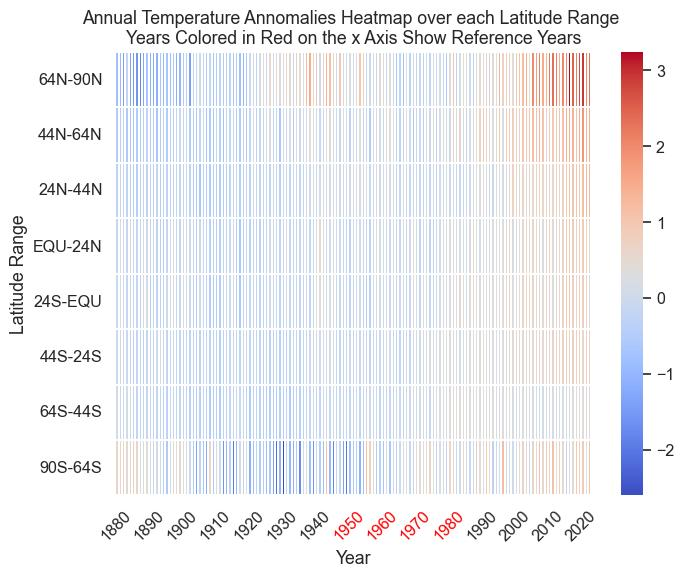
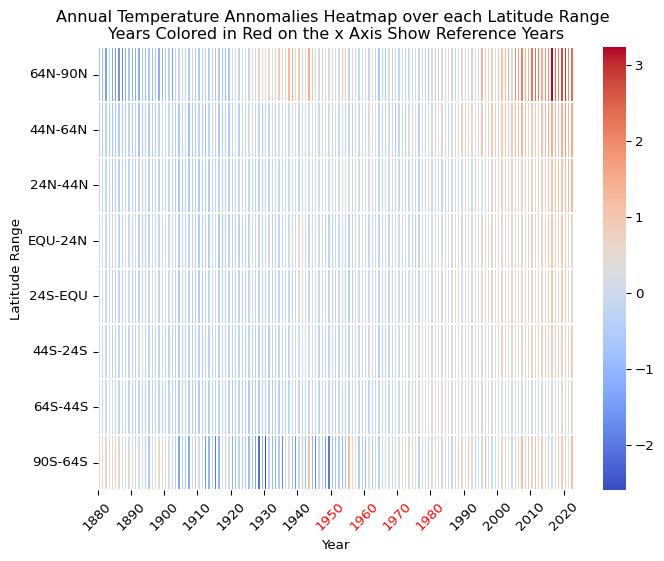
cp

diff --git a/_site/index.html b/_site/index.html
@@ -212,7 +212,7 @@ pre > code.sourceCode > span > a:first-child::before { text-decoration: underlin
 <p>Approach: The approach for this analysis will involve two distinct methods: heatmap visualization and time series analysis. The heatmap provides an intuitive grasp of the data by color mapping the temperature anomalies across latitudinal zones over time. This method is suitable for spotting overall trends and outliers in a comprehensive visual format. For the time series analysis, we will examine the changes in global and hemispheric mean temperatures over time. This will involve plotting the data, with a particular emphasis on trend lines to discern long-term changes. The use of color mapping in the heatmap serves to quickly convey the magnitude of anomalies, while the time series plot with its trend line will enable us to evaluate the trajectory of temperature changes more formally.</p>
 <section id="code-block-1-load-and-preprocess-the-data" class="level3">
 <h3 class="anchored" data-anchor-id="code-block-1-load-and-preprocess-the-data">Code Block 1: Load and preprocess the data</h3>
-<div id="93212ed3" class="cell" data-execution_count="1">
+<div id="50be3306" class="cell" data-execution_count="1">
 <div class="sourceCode cell-code" id="cb1"><pre class="sourceCode python code-with-copy"><code class="sourceCode python"><span id="cb1-1"><a href="#cb1-1" aria-hidden="true" tabindex="-1"></a><span class="im">import</span> pandas <span class="im">as</span> pd</span>
 <span id="cb1-2"><a href="#cb1-2" aria-hidden="true" tabindex="-1"></a><span class="im">import</span> matplotlib.pyplot <span class="im">as</span> plt</span>
 <span id="cb1-3"><a href="#cb1-3" aria-hidden="true" tabindex="-1"></a><span class="im">import</span> seaborn <span class="im">as</span> sns</span>
@@ -313,20 +313,20 @@ pre > code.sourceCode > span > a:first-child::before { text-decoration: underlin
 <p>Introduction: We will use nh_temps.csv and sh_temps.csv datasets. We should start by converting the dataset of each hemisphere to a long format by defining one new column for month (season) and one column that shows the hemispheres (NH and SH). Finally, we can merge the data frames vertically to arrive at a one comprehensive dataframe. We can compare the pattern of seasonal temperature anomalies over the Northern and Southern hemispheres separately and collectively. We can use time series, box plots, or histograms to illustrate and compare the time series and statistical distribution of seasonal temperature anomalies in the northern and southern hemispheres to discuss how different and similar they are. It may be interesting to create a similar visualization to the previous question with deviation from long-term anomalies. This would not only capture how seasonal temperatures have strayed from some long-term average, but how temperatures are fluctuating relative to even temporally local averages.</p>
 <p>Approach: We’ll perform comparative analysis by comparing 2023 average temperature anomalies with historical peaks, both globally and hemispherically, while also scrutinizing seasonal variations to deepen our understanding.</p>
 <p>Analysis:</p>
-<div id="29194b67" class="cell" data-execution_count="4">
+<div id="1bc971f5" class="cell" data-execution_count="4">
 <div class="sourceCode cell-code" id="cb5"><pre class="sourceCode python code-with-copy"><code class="sourceCode python"><span id="cb5-1"><a href="#cb5-1" aria-hidden="true" tabindex="-1"></a><span class="im">import</span> pandas <span class="im">as</span> pd </span>
 <span id="cb5-2"><a href="#cb5-2" aria-hidden="true" tabindex="-1"></a><span class="im">import</span> numpy <span class="im">as</span> np  </span>
 <span id="cb5-3"><a href="#cb5-3" aria-hidden="true" tabindex="-1"></a><span class="im">import</span> seaborn <span class="im">as</span> sns</span>
 <span id="cb5-4"><a href="#cb5-4" aria-hidden="true" tabindex="-1"></a><span class="im">import</span> matplotlib.pyplot <span class="im">as</span> plt</span>
 <span id="cb5-5"><a href="#cb5-5" aria-hidden="true" tabindex="-1"></a><span class="im">from</span> matplotlib.ticker <span class="im">import</span> MaxNLocator</span></code><button title="Copy to Clipboard" class="code-copy-button"><i class="bi"></i></button></pre></div>
 </div>
-<div id="b9d6f999" class="cell" data-execution_count="5">
+<div id="3d9cd2a2" class="cell" data-execution_count="5">
 <div class="sourceCode cell-code" id="cb6"><pre class="sourceCode python code-with-copy"><code class="sourceCode python"><span id="cb6-1"><a href="#cb6-1" aria-hidden="true" tabindex="-1"></a>NH <span class="op">=</span> pd.read_csv(<span class="st">'./data/nh_temps.csv'</span>)</span>
 <span id="cb6-2"><a href="#cb6-2" aria-hidden="true" tabindex="-1"></a>SH <span class="op">=</span> pd.read_csv(<span class="st">'./data/sh_temps.csv'</span>)</span>
 <span id="cb6-3"><a href="#cb6-3" aria-hidden="true" tabindex="-1"></a><span class="co"># SH = SH.set_index('Year')</span></span>
 <span id="cb6-4"><a href="#cb6-4" aria-hidden="true" tabindex="-1"></a><span class="co"># NH = NH.set_index('Year')</span></span></code><button title="Copy to Clipboard" class="code-copy-button"><i class="bi"></i></button></pre></div>
 </div>
-<div id="cd6398b8" class="cell" data-execution_count="6">
+<div id="2d06541e" class="cell" data-execution_count="6">
 <div class="sourceCode cell-code" id="cb7"><pre class="sourceCode python code-with-copy"><code class="sourceCode python"><span id="cb7-1"><a href="#cb7-1" aria-hidden="true" tabindex="-1"></a>SH <span class="op">=</span> SH.rename(columns<span class="op">=</span>{<span class="st">'DJF'</span>: <span class="st">"JJA"</span>, <span class="st">'MAM'</span>: <span class="st">'SON'</span>, <span class="st">'JJA'</span>: <span class="st">"DJF"</span>, <span class="st">'SON'</span>:<span class="st">'MAM'</span> })</span>
 <span id="cb7-2"><a href="#cb7-2" aria-hidden="true" tabindex="-1"></a></span>
 <span id="cb7-3"><a href="#cb7-3" aria-hidden="true" tabindex="-1"></a></span>
@@ -372,31 +372,33 @@ pre > code.sourceCode > span > a:first-child::before { text-decoration: underlin
 <span id="cb7-43"><a href="#cb7-43" aria-hidden="true" tabindex="-1"></a>        <span class="cf">if</span> index <span class="op">%</span> nth_label <span class="op">!=</span> <span class="dv">0</span>:</span>
 <span id="cb7-44"><a href="#cb7-44" aria-hidden="true" tabindex="-1"></a>            label.set_visible(<span class="va">False</span>)</span>
 <span id="cb7-45"><a href="#cb7-45" aria-hidden="true" tabindex="-1"></a></span>
-<span id="cb7-46"><a href="#cb7-46" aria-hidden="true" tabindex="-1"></a></span>
+<span id="cb7-46"><a href="#cb7-46" aria-hidden="true" tabindex="-1"></a>figg.savefig(<span class="st">'./images/timeseis.jpg'</span>,bbox_inches<span class="op">=</span><span class="st">'tight'</span>)</span>
 <span id="cb7-47"><a href="#cb7-47" aria-hidden="true" tabindex="-1"></a></span>
-<span id="cb7-48"><a href="#cb7-48" aria-hidden="true" tabindex="-1"></a>figg, ax <span class="op">=</span> plt.subplots(nrows<span class="op">=</span><span class="dv">1</span>, ncols<span class="op">=</span><span class="dv">1</span>, figsize<span class="op">=</span>(<span class="dv">20</span>, <span class="dv">8</span>))</span>
-<span id="cb7-49"><a href="#cb7-49" aria-hidden="true" tabindex="-1"></a>plot <span class="op">=</span> sns.boxplot(data<span class="op">=</span>df_full, y<span class="op">=</span><span class="st">'Temperature'</span>, x<span class="op">=</span><span class="st">'Season'</span>, hue<span class="op">=</span><span class="st">'Hemisphere'</span>, ax<span class="op">=</span>ax)</span>
-<span id="cb7-50"><a href="#cb7-50" aria-hidden="true" tabindex="-1"></a></span>
-<span id="cb7-51"><a href="#cb7-51" aria-hidden="true" tabindex="-1"></a><span class="co"># Setting the title and labels for the plot</span></span>
-<span id="cb7-52"><a href="#cb7-52" aria-hidden="true" tabindex="-1"></a>ax.set_title(<span class="st">'Temperature Variations in the Northern and Southern Hemispheres'</span>, fontsize<span class="op">=</span><span class="dv">20</span>) <span class="co"># Adjust title font size as needed</span></span>
-<span id="cb7-53"><a href="#cb7-53" aria-hidden="true" tabindex="-1"></a>ax.set_xlabel(<span class="st">'Season'</span>, fontsize<span class="op">=</span><span class="dv">16</span>) <span class="co"># Increase font size for x label</span></span>
-<span id="cb7-54"><a href="#cb7-54" aria-hidden="true" tabindex="-1"></a>ax.set_ylabel(<span class="st">'Temperature Variation (°C)'</span>, fontsize<span class="op">=</span><span class="dv">16</span>) <span class="co"># Increase font size for y label</span></span>
-<span id="cb7-55"><a href="#cb7-55" aria-hidden="true" tabindex="-1"></a></span>
-<span id="cb7-56"><a href="#cb7-56" aria-hidden="true" tabindex="-1"></a><span class="co"># Change the x-tick labels to season names</span></span>
-<span id="cb7-57"><a href="#cb7-57" aria-hidden="true" tabindex="-1"></a>ax.set_xticklabels([<span class="st">'Winter'</span>, <span class="st">'Spring'</span>, <span class="st">'Summer'</span>, <span class="st">'Fall'</span>])</span>
-<span id="cb7-58"><a href="#cb7-58" aria-hidden="true" tabindex="-1"></a></span>
-<span id="cb7-59"><a href="#cb7-59" aria-hidden="true" tabindex="-1"></a><span class="co"># Increase font size of the tick labels</span></span>
-<span id="cb7-60"><a href="#cb7-60" aria-hidden="true" tabindex="-1"></a>ax.tick_params(axis<span class="op">=</span><span class="st">'x'</span>, labelsize<span class="op">=</span><span class="dv">16</span>)</span>
-<span id="cb7-61"><a href="#cb7-61" aria-hidden="true" tabindex="-1"></a>ax.tick_params(axis<span class="op">=</span><span class="st">'y'</span>, labelsize<span class="op">=</span><span class="dv">16</span>)</span>
-<span id="cb7-62"><a href="#cb7-62" aria-hidden="true" tabindex="-1"></a></span>
-<span id="cb7-63"><a href="#cb7-63" aria-hidden="true" tabindex="-1"></a><span class="co"># Add a legend to distinguish the seasons and hemispheres, adjust font size as needed</span></span>
-<span id="cb7-64"><a href="#cb7-64" aria-hidden="true" tabindex="-1"></a>ax.legend(title<span class="op">=</span><span class="st">'Legend'</span>, fontsize<span class="op">=</span><span class="dv">15</span>)</span>
-<span id="cb7-65"><a href="#cb7-65" aria-hidden="true" tabindex="-1"></a></span>
-<span id="cb7-66"><a href="#cb7-66" aria-hidden="true" tabindex="-1"></a><span class="co"># Optimize layout and show the plot</span></span>
-<span id="cb7-67"><a href="#cb7-67" aria-hidden="true" tabindex="-1"></a>figg.tight_layout()</span>
-<span id="cb7-68"><a href="#cb7-68" aria-hidden="true" tabindex="-1"></a>plt.show()</span></code><button title="Copy to Clipboard" class="code-copy-button"><i class="bi"></i></button></pre></div>
+<span id="cb7-48"><a href="#cb7-48" aria-hidden="true" tabindex="-1"></a></span>
+<span id="cb7-49"><a href="#cb7-49" aria-hidden="true" tabindex="-1"></a>figg, ax <span class="op">=</span> plt.subplots(nrows<span class="op">=</span><span class="dv">1</span>, ncols<span class="op">=</span><span class="dv">1</span>, figsize<span class="op">=</span>(<span class="dv">20</span>, <span class="dv">8</span>))</span>
+<span id="cb7-50"><a href="#cb7-50" aria-hidden="true" tabindex="-1"></a>plot <span class="op">=</span> sns.boxplot(data<span class="op">=</span>df_full, y<span class="op">=</span><span class="st">'Temperature'</span>, x<span class="op">=</span><span class="st">'Season'</span>, hue<span class="op">=</span><span class="st">'Hemisphere'</span>, ax<span class="op">=</span>ax)</span>
+<span id="cb7-51"><a href="#cb7-51" aria-hidden="true" tabindex="-1"></a></span>
+<span id="cb7-52"><a href="#cb7-52" aria-hidden="true" tabindex="-1"></a><span class="co"># Setting the title and labels for the plot</span></span>
+<span id="cb7-53"><a href="#cb7-53" aria-hidden="true" tabindex="-1"></a>ax.set_title(<span class="st">'Temperature Variations in the Northern and Southern Hemispheres'</span>, fontsize<span class="op">=</span><span class="dv">20</span>) <span class="co"># Adjust title font size as needed</span></span>
+<span id="cb7-54"><a href="#cb7-54" aria-hidden="true" tabindex="-1"></a>ax.set_xlabel(<span class="st">'Season'</span>, fontsize<span class="op">=</span><span class="dv">16</span>) <span class="co"># Increase font size for x label</span></span>
+<span id="cb7-55"><a href="#cb7-55" aria-hidden="true" tabindex="-1"></a>ax.set_ylabel(<span class="st">'Temperature Variation (°C)'</span>, fontsize<span class="op">=</span><span class="dv">16</span>) <span class="co"># Increase font size for y label</span></span>
+<span id="cb7-56"><a href="#cb7-56" aria-hidden="true" tabindex="-1"></a></span>
+<span id="cb7-57"><a href="#cb7-57" aria-hidden="true" tabindex="-1"></a><span class="co"># Change the x-tick labels to season names</span></span>
+<span id="cb7-58"><a href="#cb7-58" aria-hidden="true" tabindex="-1"></a>ax.set_xticklabels([<span class="st">'Winter'</span>, <span class="st">'Spring'</span>, <span class="st">'Summer'</span>, <span class="st">'Fall'</span>])</span>
+<span id="cb7-59"><a href="#cb7-59" aria-hidden="true" tabindex="-1"></a></span>
+<span id="cb7-60"><a href="#cb7-60" aria-hidden="true" tabindex="-1"></a><span class="co"># Increase font size of the tick labels</span></span>
+<span id="cb7-61"><a href="#cb7-61" aria-hidden="true" tabindex="-1"></a>ax.tick_params(axis<span class="op">=</span><span class="st">'x'</span>, labelsize<span class="op">=</span><span class="dv">16</span>)</span>
+<span id="cb7-62"><a href="#cb7-62" aria-hidden="true" tabindex="-1"></a>ax.tick_params(axis<span class="op">=</span><span class="st">'y'</span>, labelsize<span class="op">=</span><span class="dv">16</span>)</span>
+<span id="cb7-63"><a href="#cb7-63" aria-hidden="true" tabindex="-1"></a></span>
+<span id="cb7-64"><a href="#cb7-64" aria-hidden="true" tabindex="-1"></a><span class="co"># Add a legend to distinguish the seasons and hemispheres, adjust font size as needed</span></span>
+<span id="cb7-65"><a href="#cb7-65" aria-hidden="true" tabindex="-1"></a>ax.legend(title<span class="op">=</span><span class="st">'Legend'</span>, fontsize<span class="op">=</span><span class="dv">15</span>)</span>
+<span id="cb7-66"><a href="#cb7-66" aria-hidden="true" tabindex="-1"></a></span>
+<span id="cb7-67"><a href="#cb7-67" aria-hidden="true" tabindex="-1"></a><span class="co"># Optimize layout and show the plot</span></span>
+<span id="cb7-68"><a href="#cb7-68" aria-hidden="true" tabindex="-1"></a>figg.tight_layout()</span>
+<span id="cb7-69"><a href="#cb7-69" aria-hidden="true" tabindex="-1"></a>plt.show()</span>
+<span id="cb7-70"><a href="#cb7-70" aria-hidden="true" tabindex="-1"></a>figg.savefig(<span class="st">'./images/boxplot.jpg'</span>,bbox_inches<span class="op">=</span><span class="st">'tight'</span>)</span></code><button title="Copy to Clipboard" class="code-copy-button"><i class="bi"></i></button></pre></div>
 <div class="cell-output cell-output-stderr">
-<pre><code>/var/folders/wr/323h4t5x63zbc0d1jr1l1nlm0000gn/T/ipykernel_81880/1810613142.py:57: UserWarning: set_ticklabels() should only be used with a fixed number of ticks, i.e. after set_ticks() or using a FixedLocator.
+<pre><code>/var/folders/wr/323h4t5x63zbc0d1jr1l1nlm0000gn/T/ipykernel_87280/2820488422.py:58: UserWarning: set_ticklabels() should only be used with a fixed number of ticks, i.e. after set_ticks() or using a FixedLocator.
   ax.set_xticklabels(['Winter', 'Spring', 'Summer', 'Fall'])</code></pre>
 </div>
 <div class="cell-output cell-output-display">

diff --git a/_site/coding.html b/_site/coding.html
@@ -164,20 +164,20 @@ pre > code.sourceCode > span > a:first-child::before { text-decoration: underlin
 
 
 
-<div id="a7488531" class="cell" data-execution_count="1">
+<div id="6dc08522" class="cell" data-execution_count="1">
 <div class="sourceCode cell-code" id="cb1"><pre class="sourceCode python code-with-copy"><code class="sourceCode python"><span id="cb1-1"><a href="#cb1-1" aria-hidden="true" tabindex="-1"></a><span class="im">import</span> pandas <span class="im">as</span> pd </span>
 <span id="cb1-2"><a href="#cb1-2" aria-hidden="true" tabindex="-1"></a><span class="im">import</span> numpy <span class="im">as</span> np  </span>
 <span id="cb1-3"><a href="#cb1-3" aria-hidden="true" tabindex="-1"></a><span class="im">import</span> seaborn <span class="im">as</span> sns</span>
 <span id="cb1-4"><a href="#cb1-4" aria-hidden="true" tabindex="-1"></a><span class="im">import</span> matplotlib.pyplot <span class="im">as</span> plt</span>
 <span id="cb1-5"><a href="#cb1-5" aria-hidden="true" tabindex="-1"></a><span class="im">from</span> matplotlib.ticker <span class="im">import</span> MaxNLocator</span></code><button title="Copy to Clipboard" class="code-copy-button"><i class="bi"></i></button></pre></div>
 </div>
-<div id="f3cd6db7" class="cell" data-execution_count="2">
+<div id="22c59293" class="cell" data-execution_count="2">
 <div class="sourceCode cell-code" id="cb2"><pre class="sourceCode python code-with-copy"><code class="sourceCode python"><span id="cb2-1"><a href="#cb2-1" aria-hidden="true" tabindex="-1"></a>NH <span class="op">=</span> pd.read_csv(<span class="st">'./data/nh_temps.csv'</span>)</span>
 <span id="cb2-2"><a href="#cb2-2" aria-hidden="true" tabindex="-1"></a>SH <span class="op">=</span> pd.read_csv(<span class="st">'./data/sh_temps.csv'</span>)</span>
 <span id="cb2-3"><a href="#cb2-3" aria-hidden="true" tabindex="-1"></a><span class="co"># SH = SH.set_index('Year')</span></span>
 <span id="cb2-4"><a href="#cb2-4" aria-hidden="true" tabindex="-1"></a><span class="co"># NH = NH.set_index('Year')</span></span></code><button title="Copy to Clipboard" class="code-copy-button"><i class="bi"></i></button></pre></div>
 </div>
-<div id="45235228" class="cell" data-execution_count="3">
+<div id="defcd3bf" class="cell" data-execution_count="3">
 <div class="sourceCode cell-code" id="cb3"><pre class="sourceCode python code-with-copy"><code class="sourceCode python"><span id="cb3-1"><a href="#cb3-1" aria-hidden="true" tabindex="-1"></a>SH <span class="op">=</span> SH.rename(columns<span class="op">=</span>{<span class="st">'DJF'</span>: <span class="st">"JJA"</span>, <span class="st">'MAM'</span>: <span class="st">'SON'</span>, <span class="st">'JJA'</span>: <span class="st">"DJF"</span>, <span class="st">'SON'</span>:<span class="st">'MAM'</span> })</span>
 <span id="cb3-2"><a href="#cb3-2" aria-hidden="true" tabindex="-1"></a></span>
 <span id="cb3-3"><a href="#cb3-3" aria-hidden="true" tabindex="-1"></a></span>
@@ -247,7 +247,7 @@ pre > code.sourceCode > span > a:first-child::before { text-decoration: underlin
 <span id="cb3-67"><a href="#cb3-67" aria-hidden="true" tabindex="-1"></a>figg.tight_layout()</span>
 <span id="cb3-68"><a href="#cb3-68" aria-hidden="true" tabindex="-1"></a>plt.show()</span></code><button title="Copy to Clipboard" class="code-copy-button"><i class="bi"></i></button></pre></div>
 <div class="cell-output cell-output-stderr">
-<pre><code>/var/folders/wr/323h4t5x63zbc0d1jr1l1nlm0000gn/T/ipykernel_81910/1810613142.py:57: UserWarning: set_ticklabels() should only be used with a fixed number of ticks, i.e. after set_ticks() or using a FixedLocator.
+<pre><code>/var/folders/wr/323h4t5x63zbc0d1jr1l1nlm0000gn/T/ipykernel_87320/1810613142.py:57: UserWarning: set_ticklabels() should only be used with a fixed number of ticks, i.e. after set_ticks() or using a FixedLocator.
   ax.set_xticklabels(['Winter', 'Spring', 'Summer', 'Fall'])</code></pre>
 </div>
 <div class="cell-output cell-output-display">
@@ -261,6 +261,56 @@ pre > code.sourceCode > span > a:first-child::before { text-decoration: underlin
 <div>
 <figure class="figure">
 <p><img src="coding_files/figure-html/cell-4-output-3.png" width="1911" height="761" class="figure-img"></p>
+</figure>
+</div>
+</div>
+</div>
+<div id="ede028db" class="cell" data-execution_count="4">
+<div class="sourceCode cell-code" id="cb5"><pre class="sourceCode python code-with-copy"><code class="sourceCode python"><span id="cb5-1"><a href="#cb5-1" aria-hidden="true" tabindex="-1"></a><span class="im">import</span> pandas <span class="im">as</span> pd</span>
+<span id="cb5-2"><a href="#cb5-2" aria-hidden="true" tabindex="-1"></a><span class="im">import</span> matplotlib.pyplot <span class="im">as</span> plt</span>
+<span id="cb5-3"><a href="#cb5-3" aria-hidden="true" tabindex="-1"></a><span class="im">import</span> seaborn <span class="im">as</span> sns</span>
+<span id="cb5-4"><a href="#cb5-4" aria-hidden="true" tabindex="-1"></a><span class="im">import</span> joypy</span>
+<span id="cb5-5"><a href="#cb5-5" aria-hidden="true" tabindex="-1"></a><span class="im">from</span> matplotlib <span class="im">import</span> cm</span>
+<span id="cb5-6"><a href="#cb5-6" aria-hidden="true" tabindex="-1"></a></span>
+<span id="cb5-7"><a href="#cb5-7" aria-hidden="true" tabindex="-1"></a>zonann_temps <span class="op">=</span> pd.read_csv(<span class="st">'https://raw.githubusercontent.com/rfordatascience/tidytuesday/master/data/2023/2023-07-11/zonann_temps.csv'</span>)</span>
+<span id="cb5-8"><a href="#cb5-8" aria-hidden="true" tabindex="-1"></a></span>
+<span id="cb5-9"><a href="#cb5-9" aria-hidden="true" tabindex="-1"></a><span class="co"># Step 1: Convert the DataFrame from wide to long format</span></span>
+<span id="cb5-10"><a href="#cb5-10" aria-hidden="true" tabindex="-1"></a>data <span class="op">=</span> pd.melt(zonann_temps, id_vars <span class="op">=</span> [<span class="st">'Year'</span>, <span class="st">'Glob'</span>], </span>
+<span id="cb5-11"><a href="#cb5-11" aria-hidden="true" tabindex="-1"></a>                       value_vars <span class="op">=</span> [<span class="st">'EQU-24N'</span>, <span class="st">'24N-44N'</span>, <span class="st">'44N-64N'</span>, <span class="st">'64N-90N'</span>, <span class="st">'24S-EQU'</span>, <span class="st">'44S-24S'</span>, <span class="st">'64S-44S'</span>, <span class="st">'90S-64S'</span>],</span>
+<span id="cb5-12"><a href="#cb5-12" aria-hidden="true" tabindex="-1"></a>                       var_name <span class="op">=</span> <span class="st">'lat_range'</span>, value_name <span class="op">=</span> <span class="st">'temp_dev'</span>)</span>
+<span id="cb5-13"><a href="#cb5-13" aria-hidden="true" tabindex="-1"></a></span>
+<span id="cb5-14"><a href="#cb5-14" aria-hidden="true" tabindex="-1"></a></span>
+<span id="cb5-15"><a href="#cb5-15" aria-hidden="true" tabindex="-1"></a><span class="co"># Pivot the data for heatmap plotting, with Year on the x-axis and latitude ranges on the y-axis</span></span>
+<span id="cb5-16"><a href="#cb5-16" aria-hidden="true" tabindex="-1"></a>heatmap_data_swapped_axes <span class="op">=</span> data.pivot_table(index <span class="op">=</span> <span class="st">"lat_range"</span>,columns<span class="op">=</span> <span class="st">"Year"</span>,values <span class="op">=</span> <span class="st">"temp_dev"</span>)</span>
+<span id="cb5-17"><a href="#cb5-17" aria-hidden="true" tabindex="-1"></a></span>
+<span id="cb5-18"><a href="#cb5-18" aria-hidden="true" tabindex="-1"></a></span>
+<span id="cb5-19"><a href="#cb5-19" aria-hidden="true" tabindex="-1"></a><span class="co"># Define the specified order for latitude ranges</span></span>
+<span id="cb5-20"><a href="#cb5-20" aria-hidden="true" tabindex="-1"></a>lat_range_order <span class="op">=</span> [<span class="st">'64N-90N'</span>, <span class="st">'44N-64N'</span>, <span class="st">'24N-44N'</span>, <span class="st">'EQU-24N'</span>, <span class="st">'24S-EQU'</span>, <span class="st">'44S-24S'</span>, <span class="st">'64S-44S'</span>, <span class="st">'90S-64S'</span>]</span>
+<span id="cb5-21"><a href="#cb5-21" aria-hidden="true" tabindex="-1"></a></span>
+<span id="cb5-22"><a href="#cb5-22" aria-hidden="true" tabindex="-1"></a><span class="co"># Reorder the dataframe according to the specified latitude range order</span></span>
+<span id="cb5-23"><a href="#cb5-23" aria-hidden="true" tabindex="-1"></a>heatmap_data_ordered <span class="op">=</span> heatmap_data_swapped_axes.reindex(lat_range_order)</span>
+<span id="cb5-24"><a href="#cb5-24" aria-hidden="true" tabindex="-1"></a></span>
+<span id="cb5-25"><a href="#cb5-25" aria-hidden="true" tabindex="-1"></a><span class="co"># Plot the heatmap</span></span>
+<span id="cb5-26"><a href="#cb5-26" aria-hidden="true" tabindex="-1"></a>plt.figure(figsize <span class="op">=</span> (<span class="dv">8</span>, <span class="dv">6</span>))</span>
+<span id="cb5-27"><a href="#cb5-27" aria-hidden="true" tabindex="-1"></a>sns.heatmap(heatmap_data_ordered, cmap <span class="op">=</span> <span class="st">"coolwarm"</span>, linewidths <span class="op">=</span> <span class="fl">0.1</span>)</span>
+<span id="cb5-28"><a href="#cb5-28" aria-hidden="true" tabindex="-1"></a>plt.title(<span class="st">'Annual Temperature Annomalies Heatmap over each Latitude Range </span><span class="ch">\n</span><span class="st">Years Colored in Red on the x Axis Show Reference Years'</span>)</span>
+<span id="cb5-29"><a href="#cb5-29" aria-hidden="true" tabindex="-1"></a>plt.xlabel(<span class="st">'Year'</span>)</span>
+<span id="cb5-30"><a href="#cb5-30" aria-hidden="true" tabindex="-1"></a>plt.ylabel(<span class="st">'Latitude Range'</span>)</span>
+<span id="cb5-31"><a href="#cb5-31" aria-hidden="true" tabindex="-1"></a></span>
+<span id="cb5-32"><a href="#cb5-32" aria-hidden="true" tabindex="-1"></a><span class="co"># Set x-tick labels to appear every five years and color reference years in red</span></span>
+<span id="cb5-33"><a href="#cb5-33" aria-hidden="true" tabindex="-1"></a>years <span class="op">=</span> heatmap_data_ordered.columns.values</span>
+<span id="cb5-34"><a href="#cb5-34" aria-hidden="true" tabindex="-1"></a>ticks <span class="op">=</span> <span class="bu">range</span>(<span class="dv">0</span>, <span class="bu">len</span>(years), <span class="dv">10</span>)  <span class="co"># Show a tick every 5 years</span></span>
+<span id="cb5-35"><a href="#cb5-35" aria-hidden="true" tabindex="-1"></a>plt.xticks(ticks, [years[i] <span class="cf">for</span> i <span class="kw">in</span> ticks], rotation <span class="op">=</span> <span class="dv">45</span>)</span>
+<span id="cb5-36"><a href="#cb5-36" aria-hidden="true" tabindex="-1"></a>highlight_years <span class="op">=</span> [<span class="st">'1950'</span>, <span class="st">'1955'</span>, <span class="st">'1960'</span>, <span class="st">'1965'</span>, <span class="st">'1970'</span>, <span class="st">'1975'</span>, <span class="st">'1980'</span>]</span>
+<span id="cb5-37"><a href="#cb5-37" aria-hidden="true" tabindex="-1"></a><span class="cf">for</span> label <span class="kw">in</span> plt.gca().get_xticklabels():</span>
+<span id="cb5-38"><a href="#cb5-38" aria-hidden="true" tabindex="-1"></a>    <span class="cf">if</span> label.get_text() <span class="kw">in</span> highlight_years:</span>
+<span id="cb5-39"><a href="#cb5-39" aria-hidden="true" tabindex="-1"></a>        label.set_color(<span class="st">'red'</span>)</span>
+<span id="cb5-40"><a href="#cb5-40" aria-hidden="true" tabindex="-1"></a>plt.savefig(<span class="st">'./images/Heatmap.jpg'</span>,bbox_inches<span class="op">=</span><span class="st">'tight'</span>)</span>
+<span id="cb5-41"><a href="#cb5-41" aria-hidden="true" tabindex="-1"></a>plt.show()</span></code><button title="Copy to Clipboard" class="code-copy-button"><i class="bi"></i></button></pre></div>
+<div class="cell-output cell-output-display">
+<div>
+<figure class="figure">
+<p><img src="coding_files/figure-html/cell-5-output-1.png" width="664" height="561" class="figure-img"></p>
 </figure>
 </div>
 </div>
